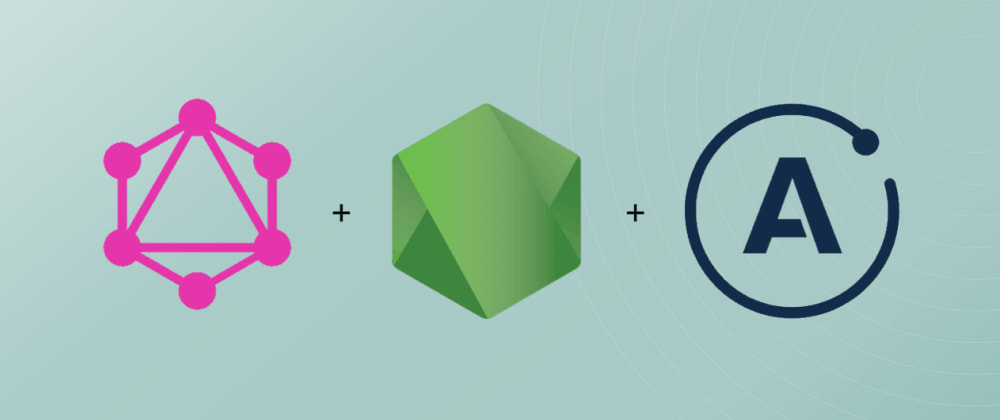
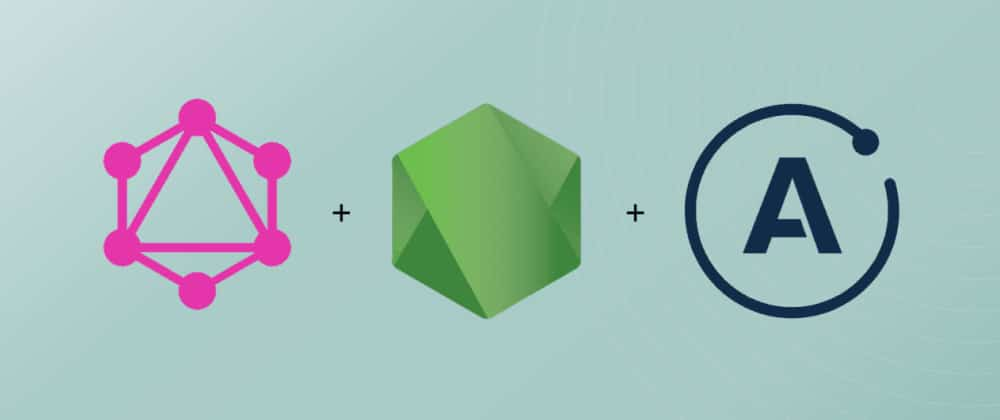
resize images

diff --git a/src/components/Hero.tsx b/src/components/Hero.tsx
@@ -16,9 +16,9 @@ const Hero: React.FC<HeroProps> = () => {
             width={250}
             height={270}
             alt="hero"
-            src="/images/luke.png"
+            src="/images/luke.jpeg"
             placeholder="blur"
-            blurDataURL="/images/luke.png"
+            blurDataURL="/images/luke.jpeg"
           />
         </div>
         <div className="lg:flex-grow md:w-1/2 lg:pl-24 md:pl-16 flex flex-col md:items-start md:text-left items-center text-center">

diff --git a/src/shared/Skills.ts b/src/shared/Skills.ts
@@ -2,7 +2,7 @@ export const Skills: { id: number; text: string; src: string }[] = [
   {
     id: 1,
     text: 'React.js',
-    src: '/images/skills/react-logo.png',
+    src: '/images/skills/react-logo.jpeg',
   },
   {
     id: 2,
@@ -32,6 +32,6 @@ export const Skills: { id: number; text: string; src: string }[] = [
   {
     id: 7,
     text: 'Manual & automated testing',
-    src: '/images/skills/testing.webp',
+    src: '/images/skills/testing.jpeg',
   },
 ];
